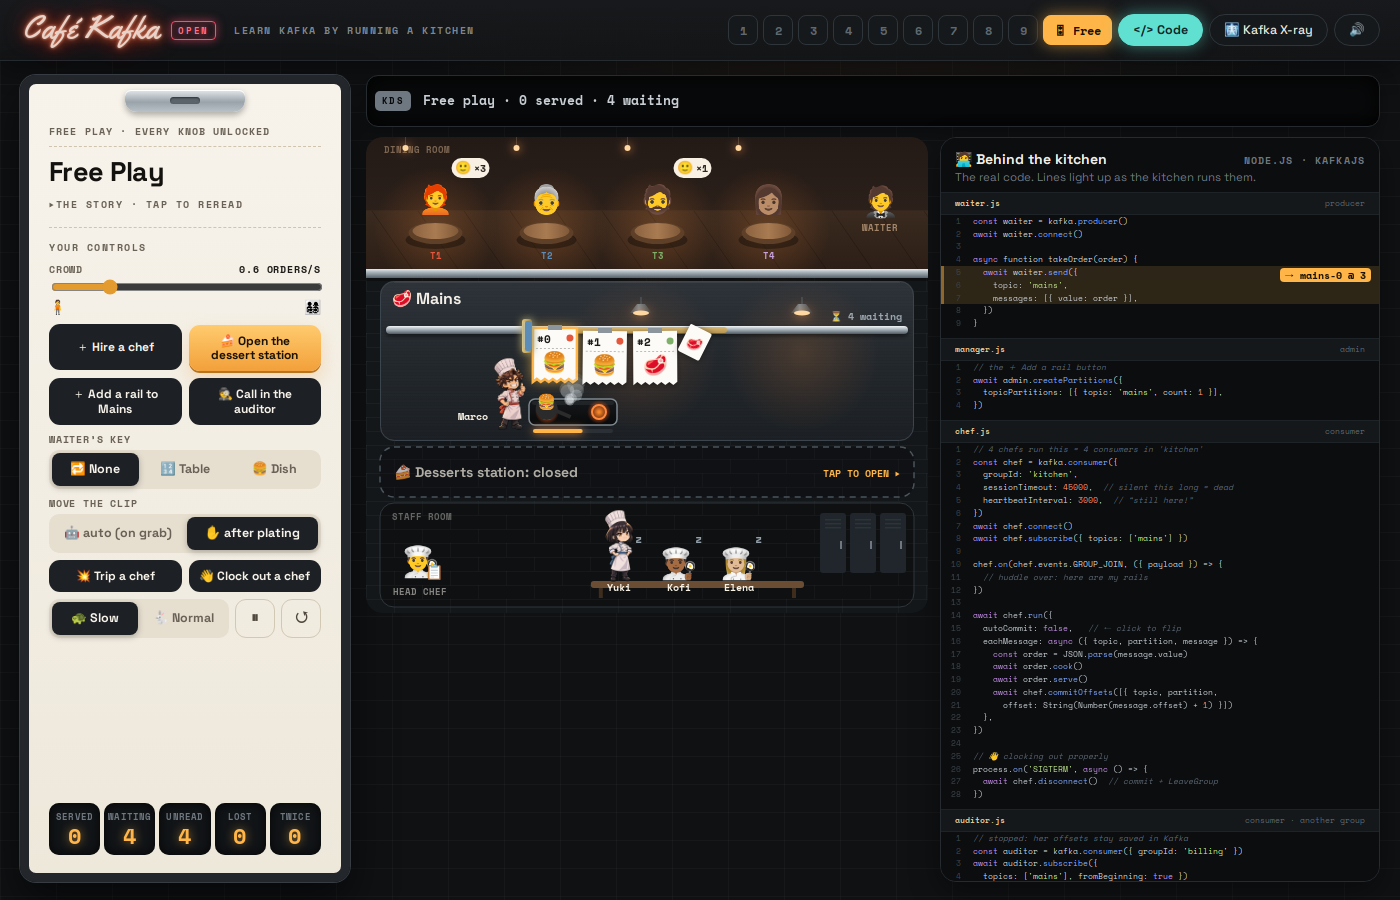
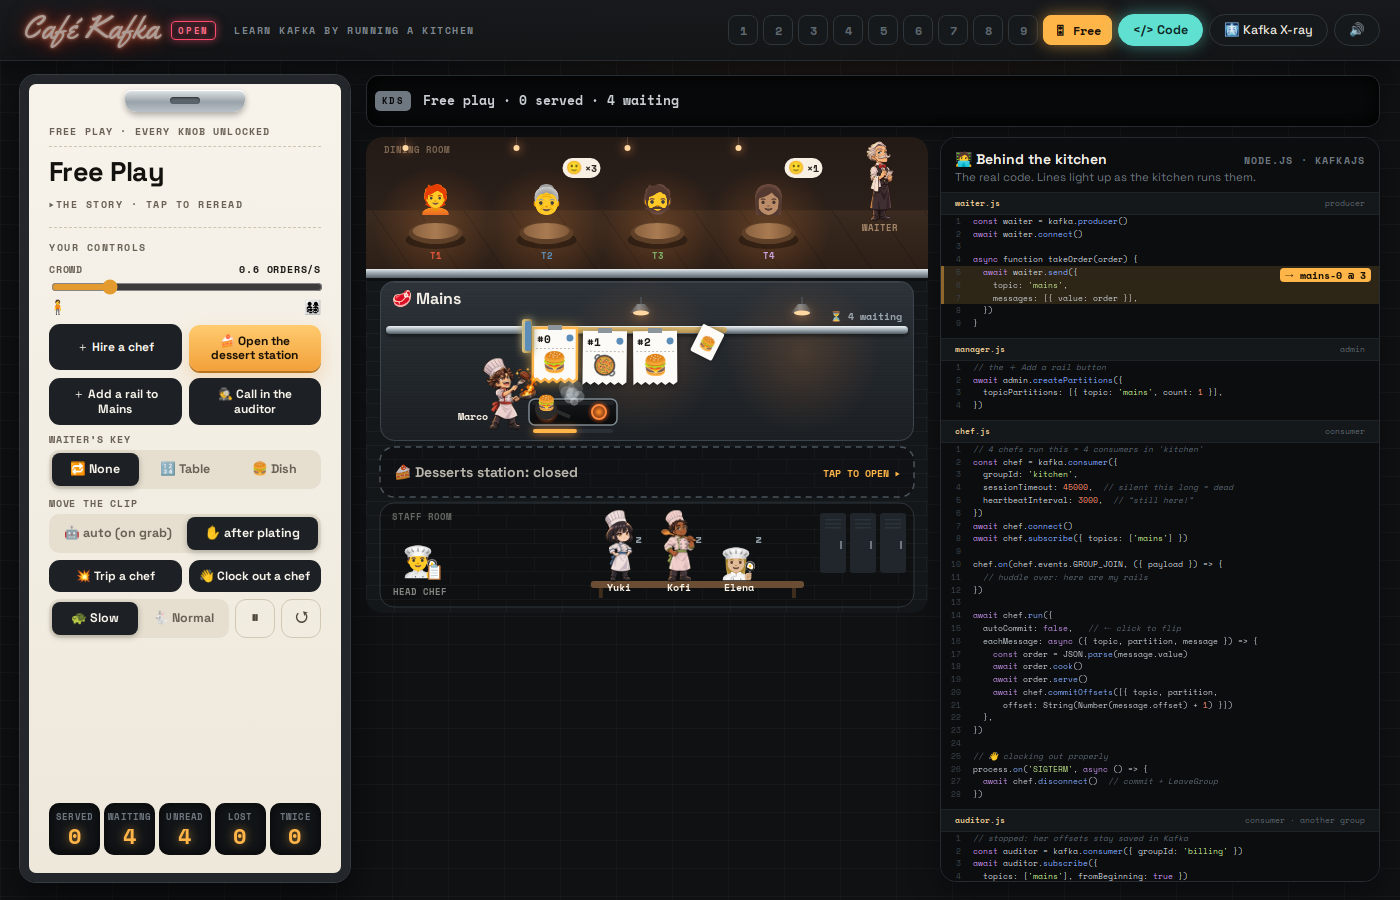
Henrik the waiter joins the dining room
Waiter sheet, cut-in bust and chibis (idle with notepad, hop-and-clip
'send'). The game shows the send pose for 0.7s each time an order goes
out (the producer sending a message). Diner lineup sheet saved for the
diner sprites to come.

diff --git a/index.html b/index.html
@@ -891,7 +891,7 @@ const hits = [];
 const LV = () => S.lvl < 0 ? SANDBOX : LEVELS[S.lvl];
 
 // ---------- cast art: anime sprites per character, emoji until their art exists ----------
-const ART = {Marco: 'cast/marco/', Yuki: 'cast/yuki/', Kofi: 'cast/kofi/'};
+const ART = {Marco: 'cast/marco/', Yuki: 'cast/yuki/', Kofi: 'cast/kofi/', Waiter: 'cast/waiter/'};
 const castImg = {};
 function castSprite(name, pose) {
   const base = ART[name]; if (!base) return null;
@@ -1445,7 +1445,12 @@ function draw(rdt) {
   });
   // waiter
   S.waiterKick = Math.max(0, S.waiterKick - rdt * 3);
-  emoji('🤵', G.waiter.x, G.waiter.y - S.waiterKick * 6, 30);
+  if (S.waiterKick > .9) S.waiterSend = NOW + .7;                    // an order just went out: show the clip-the-ticket pose
+  const wim = castSprite('Waiter', NOW < (S.waiterSend || 0) ? 'chibi-send' : 'chibi-idle') || castSprite('Waiter', 'chibi-idle');
+  if (wim) {
+    const h = 80, w = wim.naturalWidth / wim.naturalHeight * h;
+    ctx.drawImage(wim, G.waiter.x - Math.min(w, 34) / 2 - (w > 34 ? 6 : 0), G.waiter.y + 18 - h - S.waiterKick * 6, w, h);
+  } else emoji('🤵', G.waiter.x, G.waiter.y - S.waiterKick * 6, 30);
   txt('WAITER', G.waiter.x, G.waiter.y + 28, `700 9px ${MONO}`, 'rgba(255,214,170,.55)', 'center');
   if (X) xlabel('producer', G.waiter.x, G.waiter.y + 42);
   // the pass
